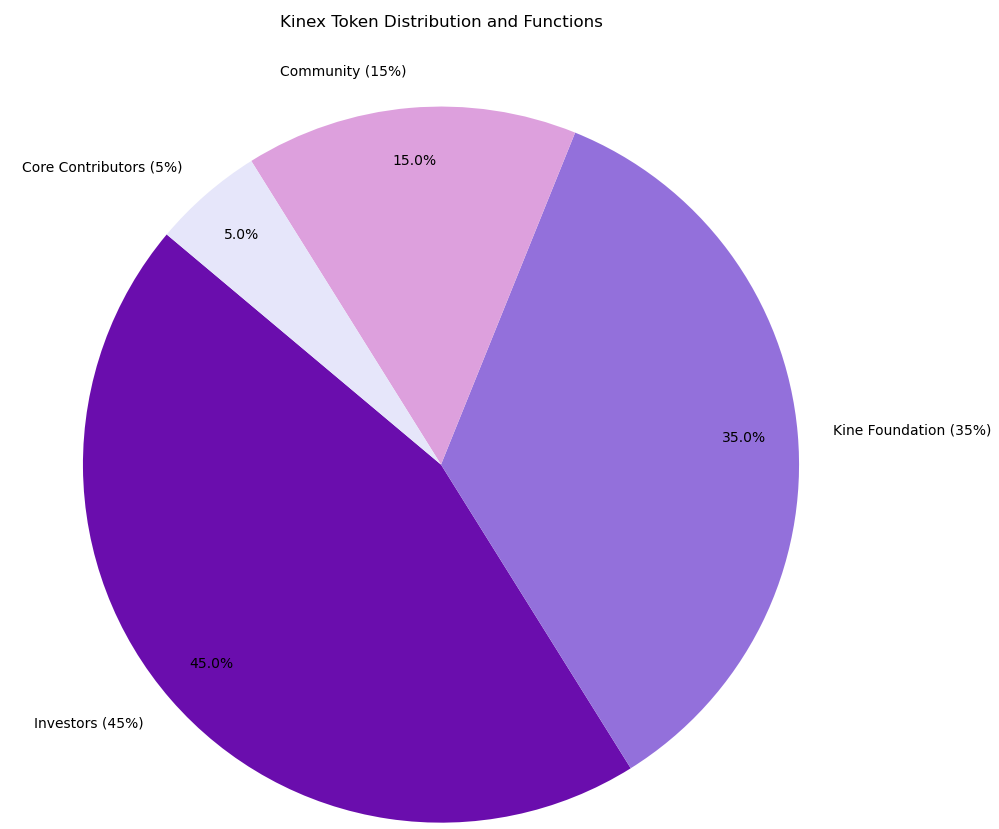
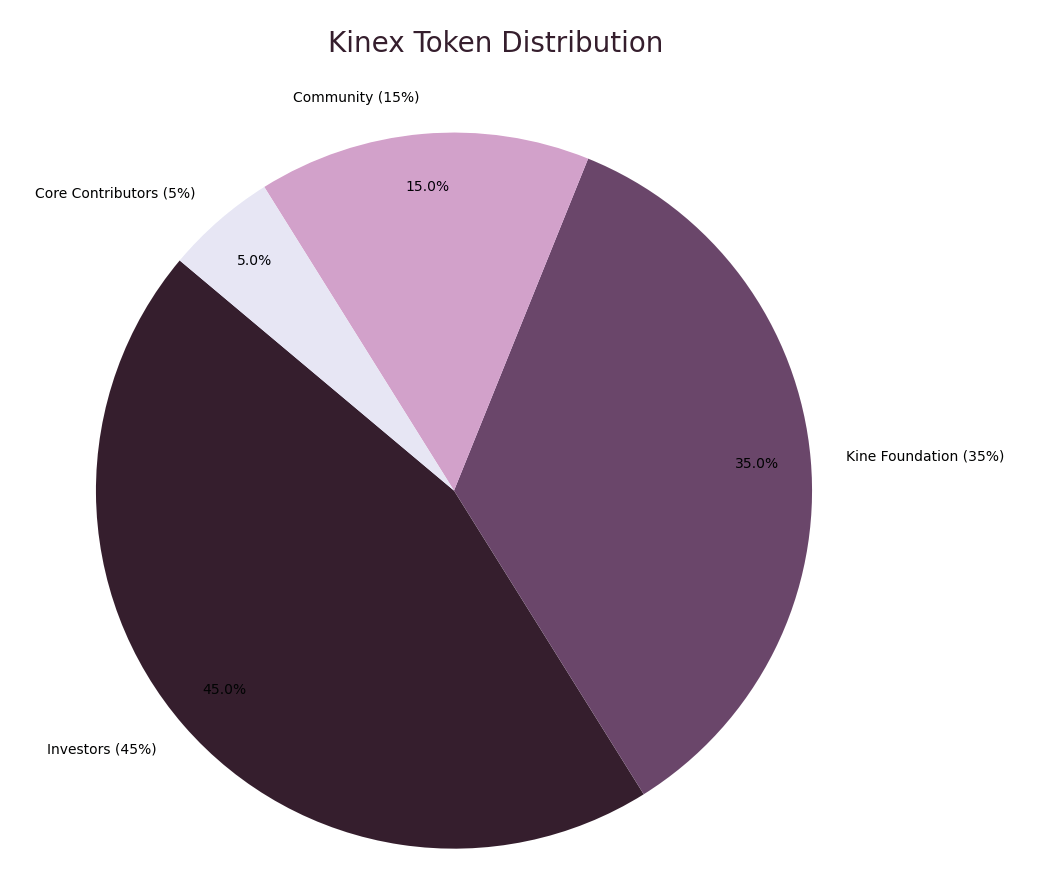
font and feature -  white kinera v3.6

diff --git a/src/components/Participation/index.jsx b/src/components/Participation/index.jsx
@@ -31,21 +31,21 @@ const Participation = () => {
                     <div className="text-justify dropitem-container flex flex-col md:flex-row items-center gap-4" data-aos="">
                         <DropItem
                           question="Curators"
-                          answer={<p style={{ fontSize: '20px', color: '#351e2d' }}><strong>CURATORS</strong> have a central role; they are responsible for discovering and organising our constellations. Their activities include searching the internet and decentralised networks for top-tier content, organising competitions, and voting for the best channels. </p>}
+                          answer={<p style={{ fontSize: '16px', color: '#351e2d' }}><strong>CURATORS</strong> have a central role; they are responsible for discovering and organising our constellations. Their activities include searching the internet and decentralised networks for top-tier content, organising competitions, and voting for the best channels. </p>}
                         />
                         <img src={curators01} alt="curators01" className="w-[50%] md:w-[230px]" />
                     </div>
                     <div className="text-justify dropitem-container flex flex-col md:flex-row-reverse items-center gap-4" data-aos="">
                         <DropItem
                           question="Creators"
-                          answer={<p style={{ fontSize: '20px', color: '#351e2d' }}><strong>CREATORS</strong> are the members who craft distinctive and captivating content from our curated lists to create streaming channels. These channels may be further enhanced with interviews and live events, providing a comprehensive viewing experience.</p>}
+                          answer={<p style={{ fontSize: '16px', color: '#351e2d' }}><strong>CREATORS</strong> are the members who craft distinctive and captivating content from our curated lists to create streaming channels. These channels may be further enhanced with interviews and live events, providing a comprehensive viewing experience.</p>}
                         />
                         <img src={creators01} alt="creators01" className="w-[50%] md:w-[230px]" />
                     </div>
                     <div className="text-justify dropitem-container flex flex-col md:flex-row items-center gap-4" data-aos="">
                         <DropItem
                           question="Moderators"
-                          answer={<p style={{ fontSize: '20px', color: '#351e2d' }}><strong>MODERATORS</strong> are the volunteers who maintain the platform's high quality and safety standards. They report and resolve content disputes and ensure that all users follow guidelines.  You can set your moderation flag on if your reputation is in the top 80%. If so, report content, use your tokens to vote the decisions, and win tokens back from voting according to the rules. Kinex token rewards the individual's expertise and commitment to carry out the role with knowledge and depth.</p>}
+                          answer={<p style={{ fontSize: '16px', color: '#351e2d' }}><strong>MODERATORS</strong> are the volunteers who maintain the platform's high quality and safety standards. They report and resolve content disputes and ensure that all users follow guidelines.  You can set your moderation flag on if your reputation is in the top 80%. If so, report content, use your tokens to vote the decisions, and win tokens back from voting according to the rules. Kinex token rewards the individual's expertise and commitment to carry out the role with knowledge and depth.</p>}
                         />
                         <img src={moderators01} alt="moderators01" className="w-[50%] md:w-[230px]" />
                     </div>
@@ -59,7 +59,7 @@ const Participation = () => {
                     <div className="text-justify dropitem-container flex flex-col md:flex-row-reverse items-center gap-4" data-aos="">
                         <DropItem
                           question="Users"
-                          answer={<p style={{ fontSize: '20px', color: '#351e2d' }}><strong>USERS</strong> shape the culture and direction of the network. At any time they can change roles and become creative, taking part, creating new communities, or being active members of the governance. Users have the power to influence and drive change, to shape the platform into something that reflects their values and interests. The more active and engaged the users are, the more vibrant and successful Kinera becomes.</p>}
+                          answer={<p style={{ fontSize: '16px', color: '#351e2d' }}><strong>USERS</strong> shape the culture and direction of the network. At any time they can change roles and become creative, taking part, creating new communities, or being active members of the governance. Users have the power to influence and drive change, to shape the platform into something that reflects their values and interests. The more active and engaged the users are, the more vibrant and successful Kinera becomes.</p>}
                         />
                         <img src={users01} alt="users01" className="w-[50%] md:w-[230px]" />
                     </div>

diff --git a/src/components/Welcome/index.jsx b/src/components/Welcome/index.jsx
@@ -16,8 +16,8 @@ const Welcome = () => {
                                 <img src={Banner} alt='BigK02' className="logo-img pulse" />
                             </div>
                             <h1 className="kinera-title " style={{ zIndex: 1, color: "#351e2d" }}>KINERA</h1>
-                            <div className="card-home" data-aos="">
-                            <p className="mt-6 text-base text-justify" style={{ zIndex: 1, fontSize: '16px', color: "#351e2d"  }}>
+                            <div className="card-home mt-6" data-aos="">
+                            <p className="mt-0 text-base text-justify" style={{ zIndex: 1, fontSize: '16px', color: "#351e2d"  }}>
                                 <span className="glitch">Kinera</span> is a media portal for transformative ideas and social progress, an open and resilient curation ecosystem that unites a diverse community of viewers and nonconformist media creators.
                             </p>
                             </div>

diff --git a/src/components/Kine/index.jsx b/src/components/Kine/index.jsx
@@ -1,4 +1,6 @@
+import React from 'react';
 import kinexBack from '../../assets/images/kineraFund_kinex.png';
+import tokenDistributionChart from '../../assets/images/kinex_token_distribution.png'; // Import the chart image
 import './kine.css';
 
 const Kine = () => {
@@ -48,10 +50,14 @@ const Kine = () => {
                             <strong>Token Distribution:</strong> The Kinex Tokens assigned to investors is 45%. To the Kine Foundation 35%. To the community: 15%. To core contributors (the team, future team and seed advisors) 5%.
                         </p>
                     </div>
+                    {/* Add the chart image */}
+                    <div className="card-kine" data-aos="">
+                        <img className="chart-image" src={tokenDistributionChart} alt="Kinex Token Distribution" />
+                    </div>
                 </div>
             </div>
         </div>
-    )
+    );
 }
 
 export default Kine;

diff --git a/src/components/DropItem/index.jsx b/src/components/DropItem/index.jsx
@@ -14,7 +14,7 @@ const DropItem = ({ answer, question }) => {
                 onClick={toggleAnswer}
                 className={`w-full h-[56px] px-10 flex items-center rounded-lg text-[#351e2d] duration-500 cursor-pointer ${showAnswer ? 'bg-[#d0c1d0B3]' : 'bg-[#6a466a]'}`}
             >
-                <span className="w-full flex justify-center md:text-[28px] text-[19px]">
+                <span className="w-full flex justify-center md:text-[22px] text-[18px]">
                     {question}
                 </span>
                 { showAnswer ? ( <AiOutlineMinus size={26} /> ) : ( <AiOutlinePlus size={26} /> ) }

diff --git a/src/components/DropInfo/index.jsx b/src/components/DropInfo/index.jsx
@@ -12,7 +12,7 @@ const DropInfo = ({ question, answer, onClick, showAnswer }) => {
         <span className="w-full flex text-[18px]">
           {question}
         </span>
-        {showAnswer ? <AiFillEyeInvisible size={26} /> : <AiFillEye size={26} />}
+        {showAnswer ? <AiFillEyeInvisible size={20} /> : <AiFillEye size={20} />}
       </div>
 
       <div className={`drop-info-answer ${showAnswer ? 'active' : 'inactive'}`}>

diff --git a/src/components/DropInfo/DropInfo.css b/src/components/DropInfo/DropInfo.css
@@ -35,7 +35,7 @@
     width: 100%;
     background-color: rgba(249, 249, 249, 0.67);
     color: #351e2d;
-    font-size: 20px;
+    font-size: 16px;
     margin-top: 5px;
     padding: 20px; /* Adicionando padding */
     transition: opacity 0.5s ease-in-out, height 0.5s ease-in-out;

diff --git a/src/components/Kine/kine.css b/src/components/Kine/kine.css
@@ -63,3 +63,10 @@
         padding: 0 5%; /* Adjusting for consistent padding without affecting width */
     }
 }
+
+.chart-image {
+    width: 100%;
+    height: auto;
+    display: block;
+    margin: 0 auto;
+}

diff --git a/src/components/Welcome/style.css b/src/components/Welcome/style.css
@@ -170,7 +170,7 @@
 }
 
 .card-home {
-    background-color: rgba(255, 255, 255, 0.02);
+    background-color: rgba(222, 12, 173, 0.036);
     border-radius: 10px;
     padding: 20px;
     margin-top: 20px;
